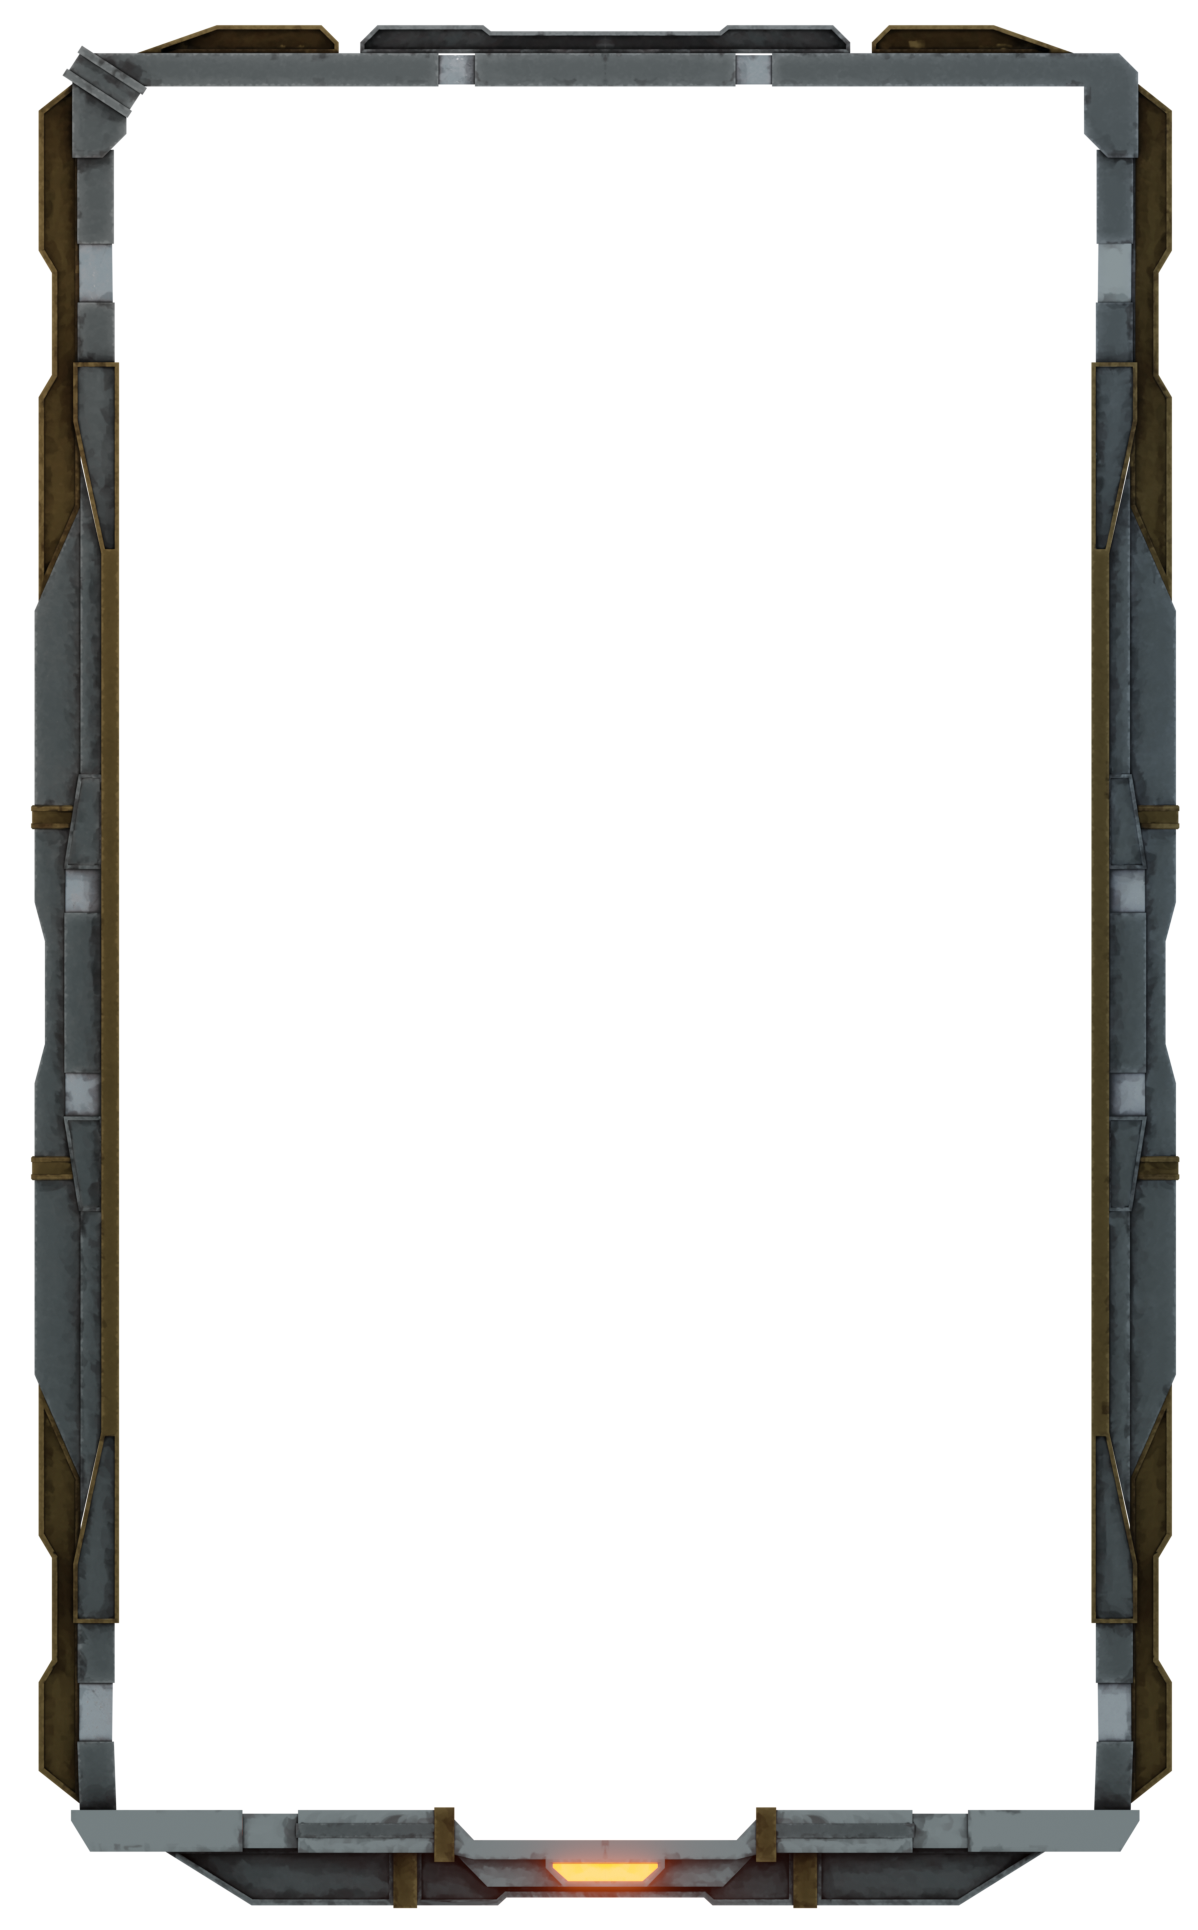
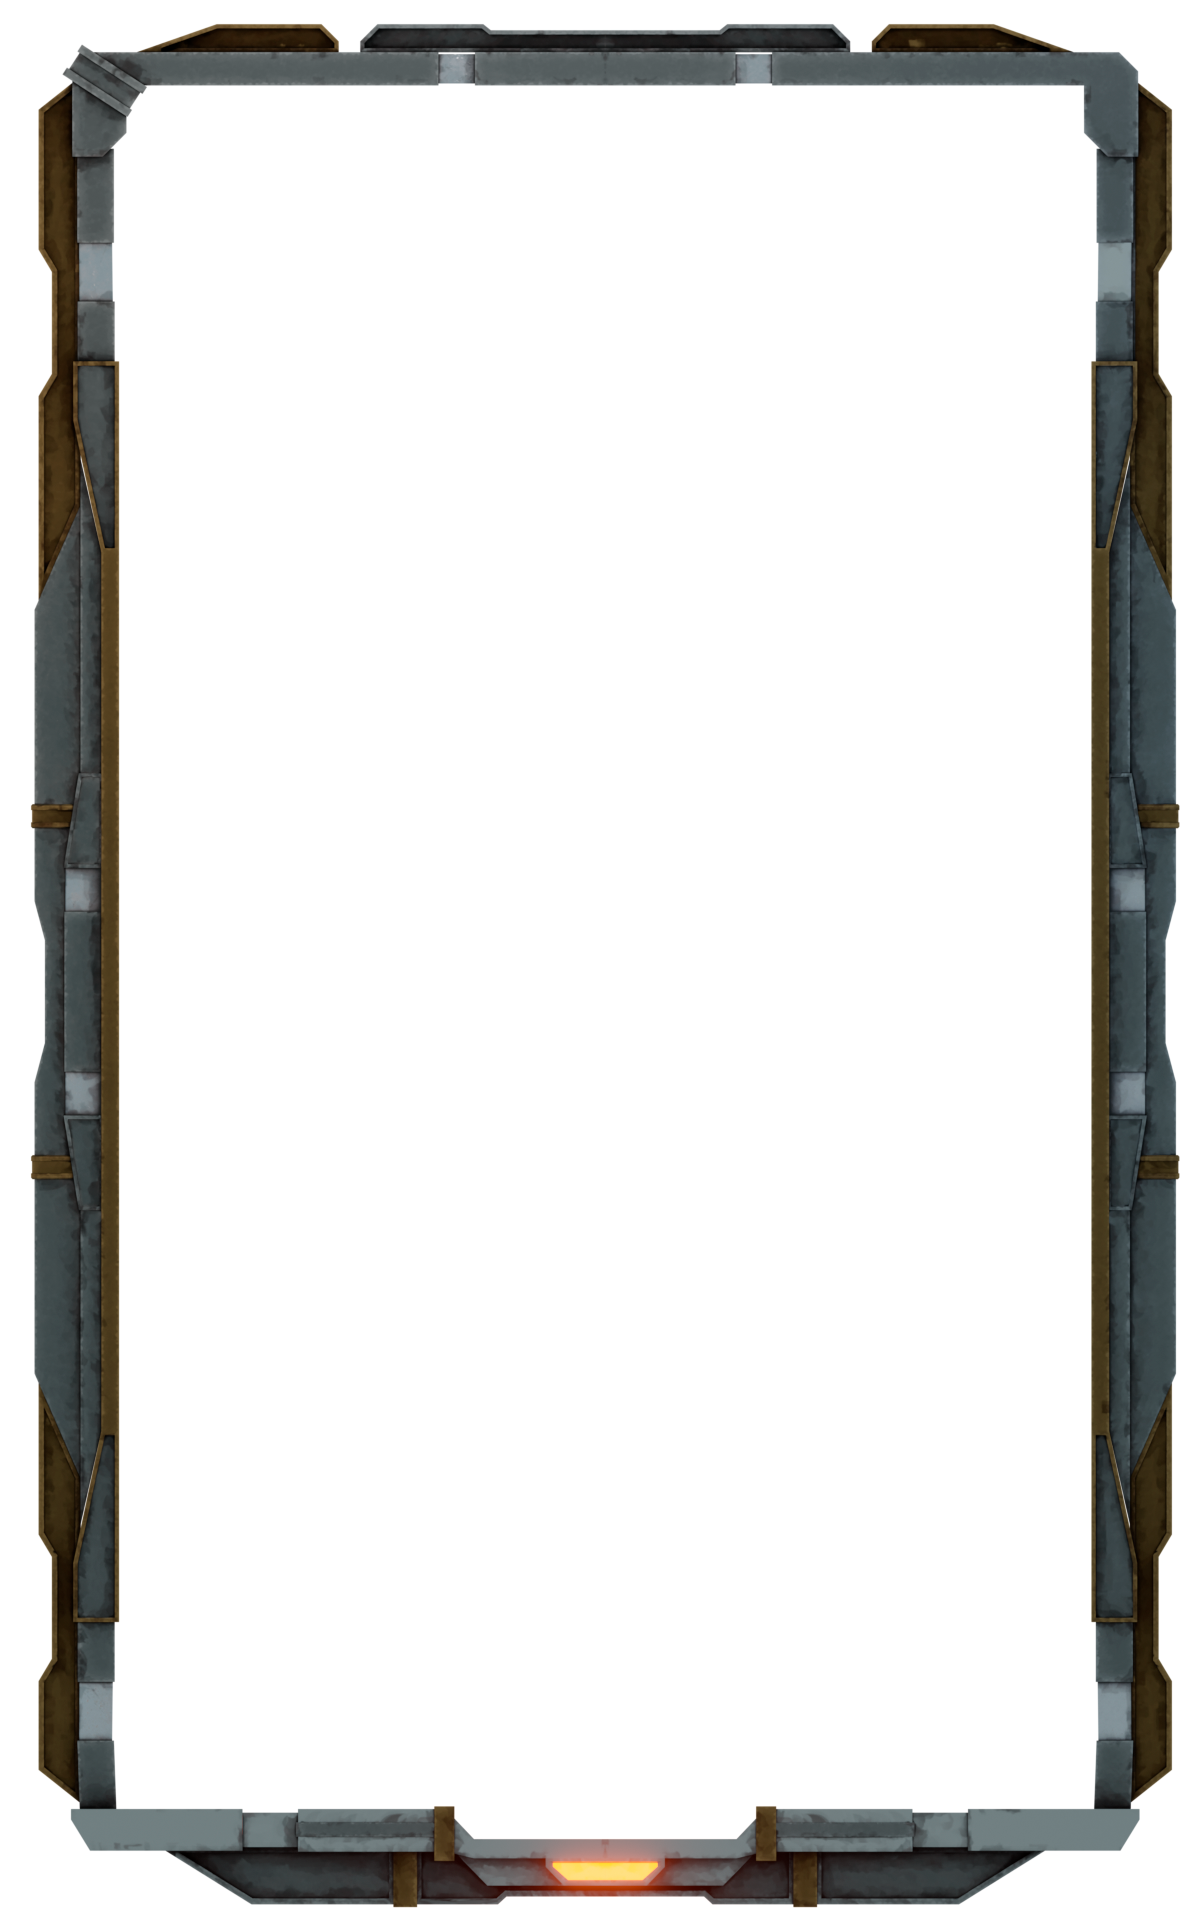
EMFXD-1742: Release version 1.3.1 dashboard web-app (#26)
* feat: :zap: improve re-renders, break changes

* build: :memo: update version

* fix: :ambulance: solve Maximum stack deep size in the generators/card section

* refactor: :fire: change structure to use mutative and use hooks

* fix: :fire: remove package-lock.json and update cardPage to handle cardView useRef

* fix: :bug: solve some conflicts related to the barrel auto import, thanks @mrmarble

* feat: :fire: include ref in the reusable component of card generator page

* EMFXD-1690: Add global faction frames to the internal dashboard (#23)

* EMFXD-1696: Resolve error related to wrong frames (#24)

* fix: :bug: solve bug related to the wrong frame

still need to be changed the global frame of the rare rarity

* fix: :bug: add the fixed frame of global card

* EMFXD-1691: Add first edition frames (#25)

* feat: :sparkles: added first edition images to the public storage of the dashboard

* feat: :sparkles: added frame first edition toggle button

* fix: :sparkles: update frames

* fix: :art: update frames again due the pixel mismatch

Changed region(s): [[0.4633, 0.9637, 0.5559, 0.9948], [0.3397, 0.0, 0.4015, 0.0311], [0.6177, 0.0, 0.6486, 0.0311]]

diff --git a/next.config.js b/next.config.js
@@ -1,45 +1,40 @@
 /** @type {import('next').NextConfig} */
 module.exports = {
-    async headers() {
-      return [
-        {
-          source: "/:path*{/fonts}?",
-          headers: [
-            {
-              key: "Cache-Control",
-              value: "public,max-age=86400,immutable",
-            },
-          ],
-        },
-        {
-          source: "/:path*{/img}?",
-          headers: [
-            {
-              key: "Cache-Control",
-              value: "public,max-age=86400,immutable",
-            },
-          ],
-        },
-      ];
-    },
-    webpack: function (config) {
-      config.module.rules.push({
-        test: /\.md$/,
-        use: 'raw-loader',
-      })
-      return config
-    },
-    images: {
-      minimumCacheTTL: 86400,
-    },
-    eslint: {
-      ignoreDuringBuilds: true
-    },
-    /* i18n: {
-      locales: ['es', 'en'],
-      defaultLocale: 'en',
-      localeDetection: true,
-    }, */
-    trailingSlash: true,
-    reactStrictMode: true,
-  };
+  async headers() {
+    return [
+      {
+        source: "/:path*{/fonts}?",
+        headers: [
+          {
+            key: "Cache-Control",
+            value: "public,max-age=3600,immutable",
+          },
+        ],
+      },
+      {
+        source: "/:path*{/img}?",
+        headers: [
+          {
+            key: "Cache-Control",
+            value: "public,max-age=3600,immutable",
+          },
+        ],
+      },
+    ];
+  },
+  webpack: function (config) {
+    config.module.rules.push({
+      test: /\.md$/,
+      use: 'raw-loader',
+    })
+    return config
+  },
+  images: {
+    minimumCacheTTL: 86400,
+  },
+  eslint: {
+    ignoreDuringBuilds: true
+  },
+  trailingSlash: true,
+  reactStrictMode: true,
+};

diff --git a/src/features/FoxtrotCardMaker/components/CardView.tsx b/src/features/FoxtrotCardMaker/components/CardView.tsx
@@ -38,6 +38,7 @@ const CardView = ({ showFrame = true }: Props) => {
     selectedImage,
     loadingCardContent,
     editorState,
+    isFirstEdition,
   } = useCardStore(
     (state) => ({
       loadingCardContent: state.loadingState.cardContent,
@@ -48,12 +49,15 @@ const CardView = ({ showFrame = true }: Props) => {
       cardHealth: state.cardState.stats.health,
       cardMana: state.cardState.stats.mana,
       cardType: state.cardState.type,
+      isFirstEdition: state.cardState.isFirstEdition,
       selectedImage: state.cardState.selectedImage,
       editorState: state.editorState,
     }),
     shallow
   );
 
+  const frameFirstEditionPath = `${isFirstEdition ? '/firstEdition/' : '/'}`;
+  
   return (
     <>
       {loadingCardContent && <LoadingContent />}
@@ -70,7 +74,7 @@ const CardView = ({ showFrame = true }: Props) => {
         {showFrame && (
           <>
             <Frame
-              image={`/images/parts/frames/${cardRarity}/${cardFaction}.png`.toLowerCase()}
+              image={`/images/parts/frames/${cardRarity}${frameFirstEditionPath}${cardFaction}.png`.toLowerCase()}
             />
             <Mana value={cardMana} />
 

diff --git a/src/features/FoxtrotCardMaker/stores/CardStore.ts b/src/features/FoxtrotCardMaker/stores/CardStore.ts
@@ -17,6 +17,7 @@ interface CardState {
     attack: number;
     health: number;
   };
+  isFirstEdition?: boolean;
   type?: TCardType;
   downloadQuality: number;
   selectedImage?: string | undefined;
@@ -45,6 +46,7 @@ export interface CardStore {
   setCardState: (cardState: CardState) => void;
   setDownloadQuality: (quality: number) => void;
   setLoading: (loading: LoadingState) => void;
+  setFirstEdition: (value: boolean) => void;
 }
 
 export const initialCardState: CardState = {
@@ -56,6 +58,7 @@ export const initialCardState: CardState = {
     attack: 1,
     health: 1,
   },
+  isFirstEdition: false,
   type: undefined,
   downloadQuality: 1,
   selectedImage: undefined,
@@ -149,6 +152,11 @@ const store = (set: StoreSet) => ({
   setImageSize: (size: boolean) => {
     set((state) => {
       state.imageSize = size;
+    });
+  },
+  setFirstEdition: (value: boolean) => {
+    set((state) => {
+      state.cardState.isFirstEdition = value;
     });
   },
 });

diff --git a/src/features/FoxtrotCardMaker/components/Form/FirstEditionCheckbox.tsx b/src/features/FoxtrotCardMaker/components/Form/FirstEditionCheckbox.tsx
@@ -1,0 +1,32 @@
+import { Checkbox } from '@chakra-ui/react'
+import { useCardStore } from 'features/FoxtrotCardMaker/stores/CardStore';
+import React from 'react'
+import shallow from 'zustand/shallow';
+import { BoxFieldset } from '../../../../common/components/BoxFieldset';
+
+const FirstEditionCheckbox = () => {
+
+  const { isFirstEdition, setFirstEdition } = useCardStore(
+    (state) => ({
+      isFirstEdition: state.cardState.isFirstEdition,
+      setFirstEdition: state.setFirstEdition,
+    }),
+    shallow
+  );
+
+  return (
+    <BoxFieldset label="Extras">
+      <Checkbox
+      checked={isFirstEdition}
+      defaultChecked={isFirstEdition}
+      onChange={(
+        event: React.ChangeEvent<HTMLInputElement>
+      ) => {
+        setFirstEdition(event.target.checked);
+      }}
+      >First edition</Checkbox>
+    </BoxFieldset>
+  )
+}
+
+export default FirstEditionCheckbox

diff --git a/src/features/FoxtrotCardMaker/components/Form/Dropdowns/RaritySelector.tsx b/src/features/FoxtrotCardMaker/components/Form/Dropdowns/RaritySelector.tsx
@@ -7,11 +7,8 @@ import {
   useRadio,
   useRadioGroup,
 } from "@chakra-ui/react";
-import { capitalize } from "common/utils";
-import { CardRarity, rarityCheckbox } from "features/FoxtrotCardMaker/constants/cards";
-import { useCardStore } from "features/FoxtrotCardMaker/stores/CardStore";
+import { rarityCheckbox } from "features/FoxtrotCardMaker/constants/cards";
 import { TCardRarity } from "features/FoxtrotCardMaker/types/cards";
-import shallow from "zustand/shallow";
 import useSelector from "./useSelector";
 
 type RadioCardType = {
@@ -21,7 +18,7 @@ type RadioCardType = {
   isDisabled: boolean;
 };
 function RadioCard({ label, color, children, ...props }: RadioCardType) {
-  const { state, getInputProps, getCheckboxProps, getLabelProps } = useRadio(props);
+  const { getInputProps, getCheckboxProps, getLabelProps } = useRadio(props);
 
   return (
     <Box as="label">

diff --git a/src/features/FoxtrotCardMaker/components/CardGeneratorForm.tsx b/src/features/FoxtrotCardMaker/components/CardGeneratorForm.tsx
@@ -1,6 +1,6 @@
 import React, { Suspense } from "react";
 
-import { Box, Divider, Flex } from "@chakra-ui/react";
+import { Box, Checkbox, Divider, Flex } from "@chakra-ui/react";
 import {
   AttackInput,
   DescriptionEditor,
@@ -15,6 +15,7 @@ import {
 } from "features/FoxtrotCardMaker/components/Form";
 
 import ResetForm from "./Form/ResetForm";
+import FirstEditionCheckbox from "./Form/FirstEditionCheckbox";
 
 const CardGeneratorForm = () => {
   return (
@@ -72,6 +73,7 @@ const CardGeneratorForm = () => {
             >
               <FactionSelection />
               <RaritySelector />
+              <FirstEditionCheckbox/>
             </Flex>
           </Box>
           <Flex justify="flex-end" flexDirection="column">

diff --git a/src/common/components/BoxFieldset.tsx b/src/common/components/BoxFieldset.tsx
@@ -1,0 +1,31 @@
+import { Box, BoxProps } from '@chakra-ui/react';
+
+export type BoxFieldsetProps = BoxProps & {
+  children: React.ReactNode;
+  label: string;
+}
+
+export const BoxFieldset = (props: BoxFieldsetProps) => {
+  const { label, children, ...restProps } = props;
+
+  return (
+    <Box as="fieldset"
+      border="1px solid"
+      borderColor="neutrals.800"
+      borderRadius="md" p={2}
+      marginTop={2} {...restProps}
+    >
+      <Box as="legend"
+        border="1px solid"
+        borderColor="neutrals.800"
+        borderRadius="base"
+        borderStyle="dotted"
+        padding="0.2em 0.8em"
+        marginLeft="1em
+      ">
+        {label}
+      </Box>
+      {children}
+    </Box>
+  );
+};

diff --git a/src/features/FoxtrotCardMaker/constants/cards.ts b/src/features/FoxtrotCardMaker/constants/cards.ts
@@ -91,6 +91,7 @@ export const rarityCheckbox = [
 ];
 
 export const factionCheckbox = [
+  { name: CardFaction.GLOBAL, isDisabled: false },
   { name: CardFaction.BUSHIDO, isDisabled: false },
   { name: CardFaction.GANNICUS, isDisabled: true },
   { name: CardFaction.THE_FORGOTTENS, isDisabled: false },

diff --git a/src/features/FoxtrotCardMaker/components/Form/ImportCard.tsx b/src/features/FoxtrotCardMaker/components/Form/ImportCard.tsx
@@ -74,6 +74,7 @@ const ImportCard = () => {
         type: type?.toLowerCase() as TCardType,
         downloadQuality: downloadQuality,
         selectedImage: image,
+        isFirstEdition: false,
       });
 
       setLoading({ qualityValue: true });
